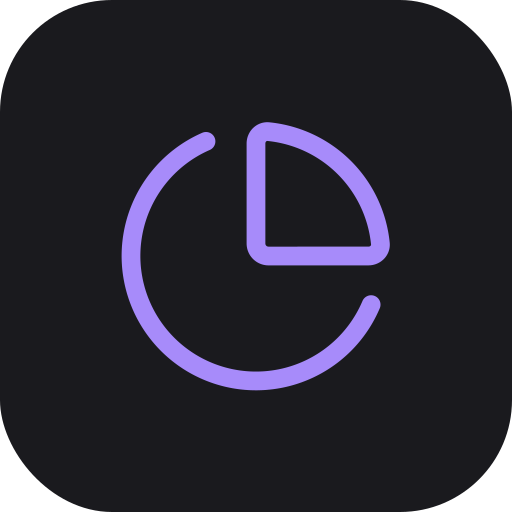
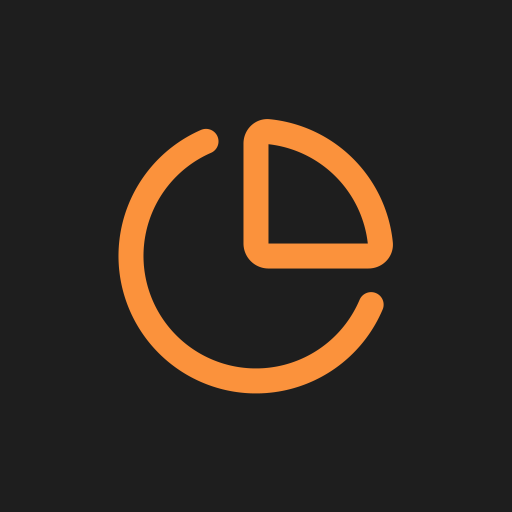
Add files via upload

diff --git a/index.html b/index.html
@@ -248,6 +248,18 @@
 
 <div class="bot-safe"></div>
 
+<!-- SESSION DELETE MODAL -->
+<div class="modal-backdrop" id="session-delete-modal">
+  <div class="modal">
+    <div class="modal-title">기록 삭제</div>
+    <div class="modal-desc">이 기록을 삭제할까요?<br>이 작업은 되돌릴 수 없습니다.</div>
+    <div class="modal-btns">
+      <button onclick="hideSessionDeleteModal()">취소</button>
+      <button class="confirm" onclick="confirmSessionDelete()">확인</button>
+    </div>
+  </div>
+</div>
+
 <!-- DELETE MODAL -->
 <div class="modal-backdrop" id="delete-modal">
   <div class="modal">
@@ -371,7 +383,7 @@ function renderStats(){
   document.getElementById('session-list').innerHTML=sorted.slice(0,30).map(s=>`<div class="session-row">
     <div><div class="session-task"><div class="dot" style="background:${tColor(s.taskId)};width:7px;height:7px"></div>${tName(s.taskId)}</div>
     <div class="session-meta">${dKey(s.start)} ${fmtT(s.start)} ~ ${fmtT(s.end)}</div></div>
-    <div class="session-dur">${fmtHM(s.dur)}</div>
+    <div style="display:flex;align-items:center;gap:6px"><div class="session-dur">${fmtHM(s.dur)}</div><button class="icon-btn danger" onclick="showSessionDeleteModal('${s.id}')" aria-label="세션 삭제"><svg viewBox="0 0 24 24"><polyline points="3 6 5 6 21 6"/><path d="M19 6l-1 14a2 2 0 01-2 2H8a2 2 0 01-2-2L5 6"/><path d="M10 11v6M14 11v6"/></svg></button></div>
   </div>`).join('')||'<div class="no-data">기록 없음</div>';
 }
 
@@ -429,6 +441,14 @@ function showDeleteModal(){document.getElementById('delete-modal').classList.add
 function hideDeleteModal(){document.getElementById('delete-modal').classList.remove('show');}
 function confirmDelete(){
   S.sessions=[];save();hideDeleteModal();renderStats();renderTracker();
+}
+
+let pendingSessionId=null;
+function showSessionDeleteModal(id){pendingSessionId=id;document.getElementById('session-delete-modal').classList.add('show');}
+function hideSessionDeleteModal(){pendingSessionId=null;document.getElementById('session-delete-modal').classList.remove('show');}
+function confirmSessionDelete(){
+  if(pendingSessionId) S.sessions=S.sessions.filter(s=>s.id!==pendingSessionId);
+  save();hideSessionDeleteModal();renderStats();renderTracker();
 }
 
 function showPage(name){